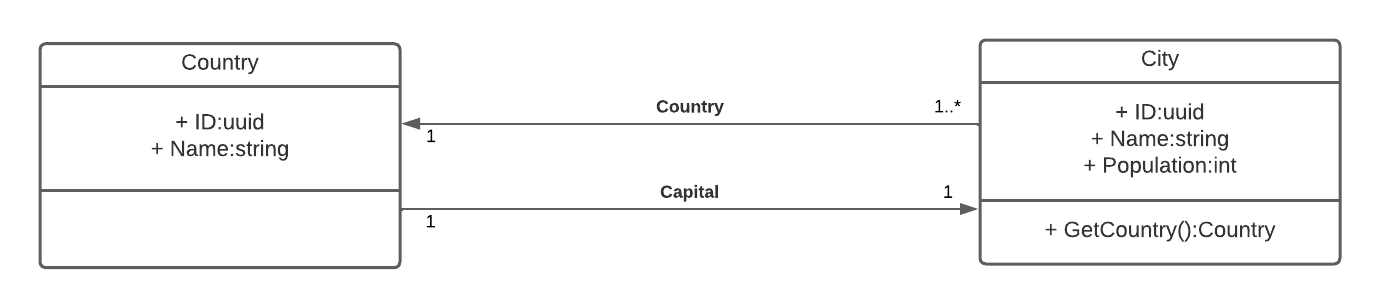
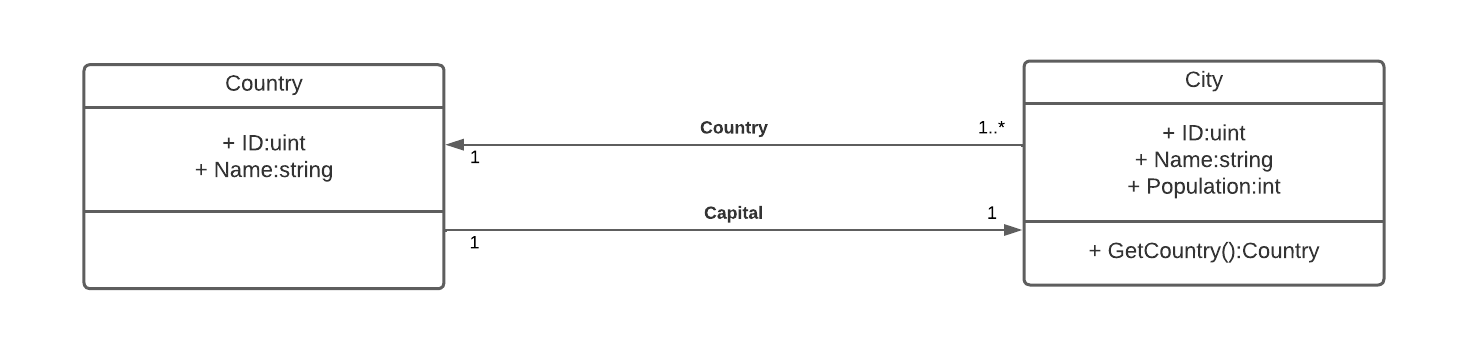
Improvement/tutorial ids and gorm-gen (#45)
* change uuid to uintid in tutorial

* move index to introduction

* add difference with gorm-gen

diff --git a/docs/conf.py b/docs/conf.py
@@ -9,8 +9,8 @@
 project = 'cql'
 copyright = '2023, Franco Liberali'
 author = 'Franco Liberali'
-release = '0.0.1'
-version = '0.0.1'
+# release = '0.0.1'
+# version = '0.0.1'
 
 # -- General configuration ---------------------------------------------------
 # https://www.sphinx-doc.org/en/master/usage/configuration.html#general-configuration

diff --git a/docs/cql/tutorial.rst b/docs/cql/tutorial.rst
@@ -24,12 +24,12 @@ In `sqlite:db` you will find a sqlite database with the following data:
    * - ID
      - Name
      - CapitalID
-   * - 3739a825-bc5c-4350-a2bc-6e77e22fe3f4
-     - France
-     - eaa480a3-694e-4be3-9af5-ad935cdd57e2
-   * - 0c4404f6-83c2-4bdf-93d5-a5ff2fe4f921
+   * - 1
      - United States of America
-     - df44272e-c3db-4e18-876c-f9f579488716
+     - 2
+   * - 2
+     - France
+     - 3
 
 .. list-table:: Cities
    :header-rows: 1
@@ -38,18 +38,18 @@ In `sqlite:db` you will find a sqlite database with the following data:
      - Name
      - Population
      - CountryID
-   * - eaa480a3-694e-4be3-9af5-ad935cdd57e2
-     - Paris
-     - 2161000
-     - 3739a825-bc5c-4350-a2bc-6e77e22fe3f4
-   * - df44272e-c3db-4e18-876c-f9f579488716
-     - Washington D. C.
-     - 689545
-     - 0c4404f6-83c2-4bdf-93d5-a5ff2fe4f921
-   * - 8c3dfc38-1fc6-4ec9-a89b-e41018a54b4a
+   * - 1
      - Paris
      - 25171
-     - 0c4404f6-83c2-4bdf-93d5-a5ff2fe4f921
+     - 1
+   * - 2
+     - Washington D. C.
+     - 689545
+     - 1
+   * - 3
+     - Paris
+     - 2161000
+     - 2
 
 As you can see, there are two cities called Paris in this database: 
 the well known Paris, capital of France and site of the iconic Eiffel tower, 
@@ -74,11 +74,11 @@ In the tutorial_1.go file you will find that we can perform this query as follow
 
 We can run this tutorial with `make tutorial_1` and we will obtain the following result:
 
-.. code-block:: bash
+.. code-block:: none
 
     Cities named 'Paris' are:
-        1: &{UUIDModel:{ID:eaa480a3-694e-4be3-9af5-ad935cdd57e2 CreatedAt:2023-08-11 16:43:27.451393348 +0200 +0200 UpdatedAt:2023-08-11 16:43:27.451393348 +0200 +0200 DeletedAt:{Time:0001-01-01 00:00:00 +0000 UTC Valid:false}} Name:Paris Population:2161000 Country:<nil> CountryID:3739a825-bc5c-4350-a2bc-6e77e22fe3f4}
-        2: &{UUIDModel:{ID:8c3dfc38-1fc6-4ec9-a89b-e41018a54b4a CreatedAt:2023-08-11 16:43:27.468149185 +0200 +0200 UpdatedAt:2023-08-11 16:43:27.468149185 +0200 +0200 DeletedAt:{Time:0001-01-01 00:00:00 +0000 UTC Valid:false}} Name:Paris Population:25171 Country:<nil> CountryID:0c4404f6-83c2-4bdf-93d5-a5ff2fe4f921}
+        1: City{ID: 1, Name: Paris, Population: 25171, CountryID:1, Country:<nil> }
+        2: City{ID: 3, Name: Paris, Population: 2161000, CountryID:2, Country:<nil> }
 
 As you can see, in this case we will get both cities which we can differentiate by their population and the id of the country.
 
@@ -105,10 +105,10 @@ In the tutorial_2.go file you will find that we can perform this query as follow
 
 We can run this tutorial with `make tutorial_2` and we will obtain the following result:
 
-.. code-block:: bash
+.. code-block:: none
 
     Cities named 'Paris' with a population bigger than 1.000.000 are:
-        1: &{UUIDModel:{ID:eaa480a3-694e-4be3-9af5-ad935cdd57e2 CreatedAt:2023-08-11 16:43:27.451393348 +0200 +0200 UpdatedAt:2023-08-11 16:43:27.451393348 +0200 +0200 DeletedAt:{Time:0001-01-01 00:00:00 +0000 UTC Valid:false}} Name:Paris Population:2161000 Country:<nil> CountryID:3739a825-bc5c-4350-a2bc-6e77e22fe3f4}
+        1: City{ID: 3, Name: Paris, Population: 2161000, CountryID:2, Country:<nil> }
 
 As you can see, in this case we only get one city, Paris in France.
 
@@ -137,9 +137,9 @@ In the tutorial_3.go file you will find that we can perform this query as follow
 
 We can run this tutorial with `make tutorial_3` and we will obtain the following result:
 
-.. code-block:: bash
+.. code-block:: none
 
-    City named 'Paris' with the largest population is: &{UUIDModel:{ID:eaa480a3-694e-4be3-9af5-ad935cdd57e2 CreatedAt:2023-08-11 16:43:27.451393348 +0200 +0200 UpdatedAt:2023-08-11 16:43:27.451393348 +0200 +0200 DeletedAt:{Time:0001-01-01 00:00:00 +0000 UTC Valid:false}} Name:Paris Population:2161000 Country:<nil> CountryID:3739a825-bc5c-4350-a2bc-6e77e22fe3f4}
+    City named 'Paris' with the largest population is: City{ID: 3, Name: Paris, Population: 2161000, CountryID:2, Country:<nil> }
 
 As you can see, again we get only the Paris in France. 
 As you may have noticed, in this case we have used the `FindOne` method instead of `Find`. 
@@ -172,10 +172,9 @@ In the tutorial_4.go file you will find that we can perform this query as follow
 
 We can run this tutorial with `make tutorial_4` and we will obtain the following result:
 
-.. code-block:: bash
+.. code-block:: none
 
-    Cities named 'Paris' in 'France' are:
-        1: &{UUIDModel:{ID:eaa480a3-694e-4be3-9af5-ad935cdd57e2 CreatedAt:2023-08-11 16:43:27.451393348 +0200 +0200 UpdatedAt:2023-08-11 16:43:27.451393348 +0200 +0200 DeletedAt:{Time:0001-01-01 00:00:00 +0000 UTC Valid:false}} Name:Paris Population:2161000 Country:<nil> CountryID:3739a825-bc5c-4350-a2bc-6e77e22fe3f4}
+    City named 'Paris' in 'France' is: City{ID: 3, Name: Paris, Population: 2161000, CountryID:2, Country:<nil> }
 
 As you can see, again we get only the Paris in France. 
 
@@ -203,13 +202,11 @@ In the tutorial_5.go file you will find that we can perform this query as follow
 
 We can run this tutorial with `make tutorial_5` and we will obtain the following result:
 
-.. code-block:: bash
+.. code-block:: none
 
     Cities named 'Paris' are:
-        1: &{UUIDModel:{ID:eaa480a3-694e-4be3-9af5-ad935cdd57e2 CreatedAt:2023-08-11 16:43:27.451393348 +0200 +0200 UpdatedAt:2023-08-11 16:43:27.451393348 +0200 +0200 DeletedAt:{Time:0001-01-01 00:00:00 +0000 UTC Valid:false}} Name:Paris Population:2161000 Country:0xc0001d1600 CountryID:3739a825-bc5c-4350-a2bc-6e77e22fe3f4}
-            with country: &{UUIDModel:{ID:3739a825-bc5c-4350-a2bc-6e77e22fe3f4 CreatedAt:2023-08-11 16:43:27.445202858 +0200 +0200 UpdatedAt:2023-08-11 16:43:27.457191337 +0200 +0200 DeletedAt:{Time:0001-01-01 00:00:00 +0000 UTC Valid:false}} Name:France Capital:<nil> CapitalID:eaa480a3-694e-4be3-9af5-ad935cdd57e2}
-        2: &{UUIDModel:{ID:8c3dfc38-1fc6-4ec9-a89b-e41018a54b4a CreatedAt:2023-08-11 16:43:27.468149185 +0200 +0200 UpdatedAt:2023-08-11 16:43:27.468149185 +0200 +0200 DeletedAt:{Time:0001-01-01 00:00:00 +0000 UTC Valid:false}} Name:Paris Population:25171 Country:0xc0001d1780 CountryID:0c4404f6-83c2-4bdf-93d5-a5ff2fe4f921}
-            with country: &{UUIDModel:{ID:0c4404f6-83c2-4bdf-93d5-a5ff2fe4f921 CreatedAt:2023-08-11 16:43:27.462357133 +0200 +0200 UpdatedAt:2023-08-11 16:43:27.479800337 +0200 +0200 DeletedAt:{Time:0001-01-01 00:00:00 +0000 UTC Valid:false}} Name:United States of America Capital:<nil> CapitalID:df44272e-c3db-4e18-876c-f9f579488716}
+        1: City{ID: 1, Name: Paris, Population: 25171, CountryID:1, Country:Country{ID: 1, Name: United States of America, CapitalID:2, Capital:<nil> } } with country: Country{ID: 1, Name: United States of America, CapitalID:2, Capital:<nil> }
+        2: City{ID: 3, Name: Paris, Population: 2161000, CountryID:2, Country:Country{ID: 2, Name: France, CapitalID:3, Capital:<nil> } } with country: Country{ID: 2, Name: France, CapitalID:3, Capital:<nil> }
 
 As you can see, now the country attribute is a valid pointer to a Country object (Country:0xc0001d1600).
 Then the Country object information is accessed with the `GetCountry` method. 
@@ -243,10 +240,10 @@ In the tutorial_6.go file you will find that we can perform this query as follow
 
 We can run this tutorial with `make tutorial_6` and we will obtain the following result:
 
-.. code-block:: bash
+.. code-block:: none
 
     Cities named 'Paris' that are the capital of their country are:
-        1: &{UUIDModel:{ID:eaa480a3-694e-4be3-9af5-ad935cdd57e2 CreatedAt:2023-08-11 16:43:27.451393348 +0200 +0200 UpdatedAt:2023-08-11 16:43:27.451393348 +0200 +0200 DeletedAt:{Time:0001-01-01 00:00:00 +0000 UTC Valid:false}} Name:Paris Population:2161000 Country:<nil> CountryID:3739a825-bc5c-4350-a2bc-6e77e22fe3f4}
+        1: City{ID: 3, Name: Paris, Population: 2161000, CountryID:2, Country:<nil> }
 
 As you can see, again we only get the Paris in France.
 
@@ -274,9 +271,9 @@ In the tutorial_7.go file you will find that we can perform this query as follow
 
 We can run this tutorial with `make tutorial_7` and we will obtain the following result:
 
-.. code-block:: bash
+.. code-block:: none
 
-    Updated 1 city: {{eaa480a3-694e-4be3-9af5-ad935cdd57e2 2023-08-11 16:43:27.451393348 +0200 +0200 2023-12-21 10:02:36.420763701 -0300 -0300 {0001-01-01 00:00:00 +0000 UTC false}} Paris 2102650 <nil> 3739a825-bc5c-4350-a2bc-6e77e22fe3f4}
+    Updated 1 city: City{ID: 3, Name: Paris, Population: 2102650, CountryID:2, Country:<nil> }
     Initial population was 2161000
 
 As you can see, first we can know the number of updated models with the value "updated" returned by the Set method 
@@ -309,13 +306,13 @@ In the tutorial_8.go file you will find that we can perform this query as follow
     :caption: Delete
 
     deleted, err := cql.Delete[models.City](
-		db,
-		conditions.City.Name.Is().Eq("Rennes"),
-	).Exec()
+        db,
+        conditions.City.Name.Is().Eq("Rennes"),
+    ).Exec()
 
 We can run this tutorial with `make tutorial_8` and we will obtain the following result:
 
-.. code-block:: bash
+.. code-block:: none
 
     Deleted 1 city
 
@@ -346,16 +343,16 @@ We can run this tutorial with `make tutorial_9` and we will obtain the following
 .. code-block:: none
 
     Countries that have a city called 'Paris' are:
-        1: &{UUIDModel:{ID:3739a825-bc5c-4350-a2bc-6e77e22fe3f4 CreatedAt:2023-08-11 16:43:27.445202858 +0200 +0200 UpdatedAt:2023-08-11 16:43:27.457191337 +0200 +0200 DeletedAt:{Time:0001-01-01 00:00:00 +0000 UTC Valid:false}} Name:France Capital:<nil> CapitalID:eaa480a3-694e-4be3-9af5-ad935cdd57e2 Cities:<nil>}
-        2: &{UUIDModel:{ID:0c4404f6-83c2-4bdf-93d5-a5ff2fe4f921 CreatedAt:2023-08-11 16:43:27.462357133 +0200 +0200 UpdatedAt:2023-08-11 16:43:27.479800337 +0200 +0200 DeletedAt:{Time:0001-01-01 00:00:00 +0000 UTC Valid:false}} Name:United States of America Capital:<nil> CapitalID:df44272e-c3db-4e18-876c-f9f579488716 Cities:<nil>}
+        1: Country{ID: 1, Name: United States of America, CapitalID:2, Capital:<nil> }
+        2: Country{ID: 2, Name: France, CapitalID:3, Capital:<nil> }
 
 As you can see, again we only get the Paris in France.
 
 In this tutorial we have used conditions over collections, 
-for more details you can read :doc:`/cql/advanced_query:Collections`.
+for more details you can read :ref:`cql/advanced_query:Collections`.
 
 Tutorial 10: Compile type safety
--------------------------------
+-----------------------------------
 
 In this tutorial we want to verify that cql is compile-time safe.
 
@@ -370,7 +367,7 @@ In the tutorial_10.go file you will find that we try to perform a query as follo
 
 We can run this tutorial with `make tutorial_10` and we will obtain the following error during compilation:
 
-.. code-block:: bash
+.. code-block:: none
 
     ./tutorial_10.go:20:3:
         cannot use conditions.Country.Name.Is().Eq("Paris")
@@ -387,4 +384,4 @@ This would be equivalent to trying to execute the following SQL query:
 
 Therefore, we will get a compilation error and this incorrect code will never be executed.
 
-For more details you can read :doc:`/cql/compile_time_safety`.
+For more details you can read :doc:`/cql/type_safety`.

diff --git a/docs/cql/introduction.md b/docs/cql/introduction.md
@@ -1,5 +1,7 @@
 # Introduction
 
+## What is cql?
+
 Originally part of [BaDaaS](https://github.com/ditrit/badaas), CQL allows easy and safe persistence and querying of objects.
 
 It's built on top of [gorm](https://gorm.io/), a library that actually provides the functionality of an ORM: mapping objects to tables in the SQL database. While gorm does this job well with its automatic migration then performing queries on these objects is somewhat limited, forcing us to write SQL queries directly when they are complex. CQL seeks to address these limitations with a query system that:
@@ -15,3 +17,32 @@ It's built on top of [gorm](https://gorm.io/), a library that actually provides 
 | SQL | SELECT cities.* FROM cities <br> INNER JOIN countries ON <br>&emsp;&emsp; countries.id = cities.country_id AND <br>&emsp;&emsp; countries.name = "France" <br> WHERE cities.name = "Paris" |
 | GORM | db.Where(<br>&emsp;"cities.name = ?",<br>&emsp;"Paris",<br>).Joins(<br>&emsp;"Country",<br>&emsp;db.Where( <br>&emsp;&emsp; "Country.name = ?", <br>&emsp;&emsp; "France", <br>&emsp; ), <br> ).Find(&cities) |
 | CQL | cql.Query[models.City]( <br>&emsp; db, <br>&emsp; conditions.City.Name.Is().Eq("Paris"), <br>&emsp; conditions.City.Country( <br>&emsp;&emsp; conditions.Country.Name.Is().Eq("France"), <br>&emsp; ), <br> ).FindOne() |
+
+## Is cql a copy of [gorm-gen](https://gorm.io/gen/)?
+
+It is true that its aim seems to be the same:
+
+> 100% Type-safe DAO API without interface{}
+
+Although gorm-gen provides a more structured API than gorm for performing queries, providing methods like:
+
+```go
+Where(conds ...gen.Condition) IUserDo
+```
+
+we can see from this signatures that, for example, the Where method receives parameters of type gen.Condition. In this way, conditions from different models could be mixed without generating a compilation error:
+
+```go
+u := query.User
+c := query.Company
+user, err := u.Where(c.Name.Eq("franco")).First()
+```
+
+which would generate a runtime error during the execution of the generated SQL:
+
+```
+SELECT * FROM `users` WHERE `companies`.`name` = "franco"
+no such column: companies.name
+```
+
+Because of this, cql decides to go further in type safety and check that the conditions are of the correct model, that the compared values are of the same type, that the models are included in the query and more, at compile time. For more details see: [Type safety](time_safety.rst)

diff --git a/docs/cql/update.rst b/docs/cql/update.rst
@@ -14,7 +14,7 @@ Update methods
 
 Update operations are divided into two parts: the Update method and the Set method. 
 In the first one, we must define the conditions that will determine which models will be updated. 
-Here, the whole system of compilable queries is valid (for details visit :ref:`cql/query`). 
+Here, the whole system of compilable queries is valid (for details visit :doc:`/cql/query`). 
 In the second one, we define the updates to be performed.
 
 The object obtained using `cql.Update` has different methods that 
@@ -98,6 +98,7 @@ This limitation is imposed by the database engines, with the exception of MySQL,
 which allows multiple tables to be updated at the same time. To do this, you use the SetMultiple method:
 
 .. code-block:: go
+
     updatedCount, err := cql.Update[MyModel](
         gormDB,
         conditions.MyModel.Related(

diff --git a/docs/cql/delete.rst b/docs/cql/delete.rst
@@ -14,7 +14,7 @@ Delete methods
 
 Delete operations are divided into two parts: the Delete method and the Exec method. 
 In the first one, we must define the conditions that will determine which models will be deleted. 
-Here, the whole system of compilable queries is valid (for details visit :ref:`cql/query`). 
+Here, the whole system of compilable queries is valid (for details visit :doc:`/cql/query`). 
 
 The object obtained using `cql.Delete` has different methods that 
 will allow you to modify the query:

diff --git a/docs/cql/advanced_query.rst b/docs/cql/advanced_query.rst
@@ -35,6 +35,7 @@ cql also allows you to set conditions on a collection of models (one to many or 
     ).Find()
 
 The methods for collections are:
+
 - None: generates a condition that is true if no model in the collection fulfills the conditions.
 - Any: generates a condition that is true if at least one model in the collection fulfills the conditions.
 - All: generates a condition that is true if all models in the collection fulfill the conditions (or is empty).

diff --git a/docs/index.rst b/docs/index.rst
@@ -1,11 +1,11 @@
 ==============================
-Introduction
+Index
 ==============================
 
 .. toctree::
    :caption: CQL
 
-   cql/index
+   cql/introduction
    cql/quickstart
    cql/tutorial
    cql/concepts
@@ -17,7 +17,7 @@ Introduction
    cql/create
    cql/update
    cql/delete
-   cql/compile_time_safety
+   cql/type_safety
    cql/logger
 
 .. toctree::

diff --git a/docs/cql/type_safety.rst b/docs/cql/type_safety.rst
@@ -1,5 +1,5 @@
 ==============================
-Compile-type safety
+Type safety
 ==============================
 
 One of the most important features of the CQL is
